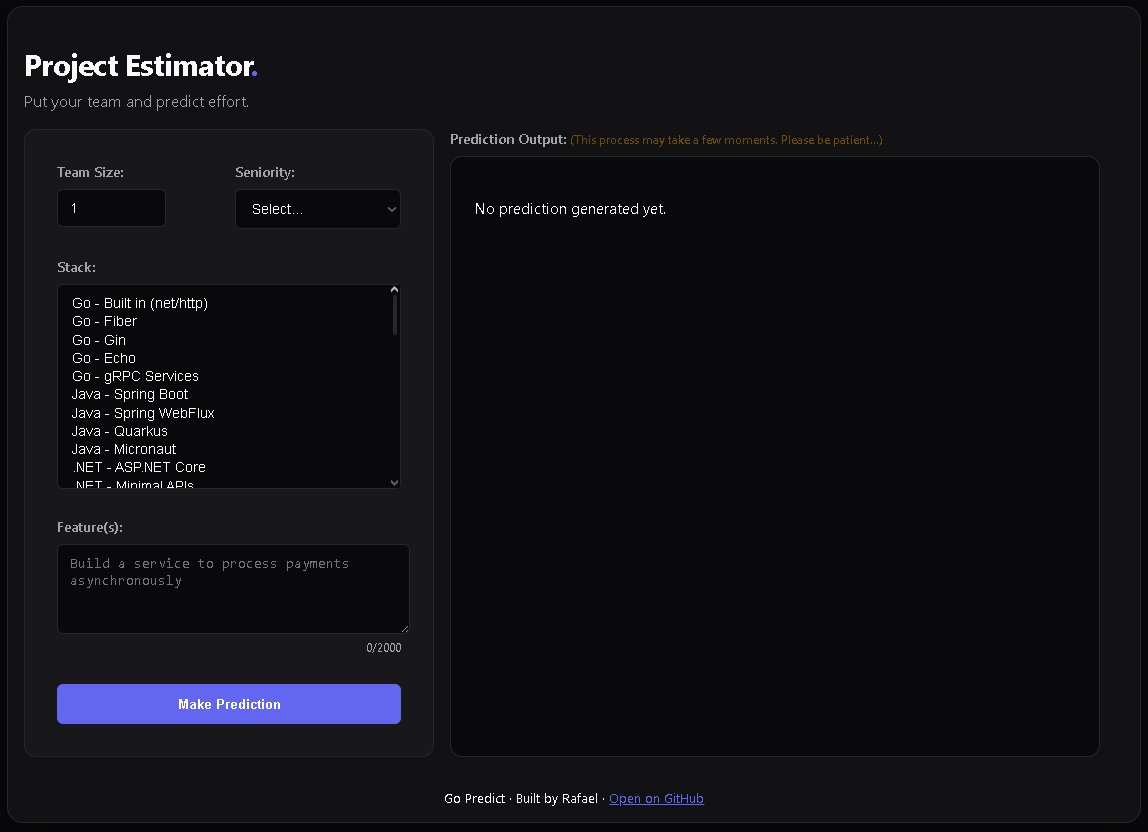
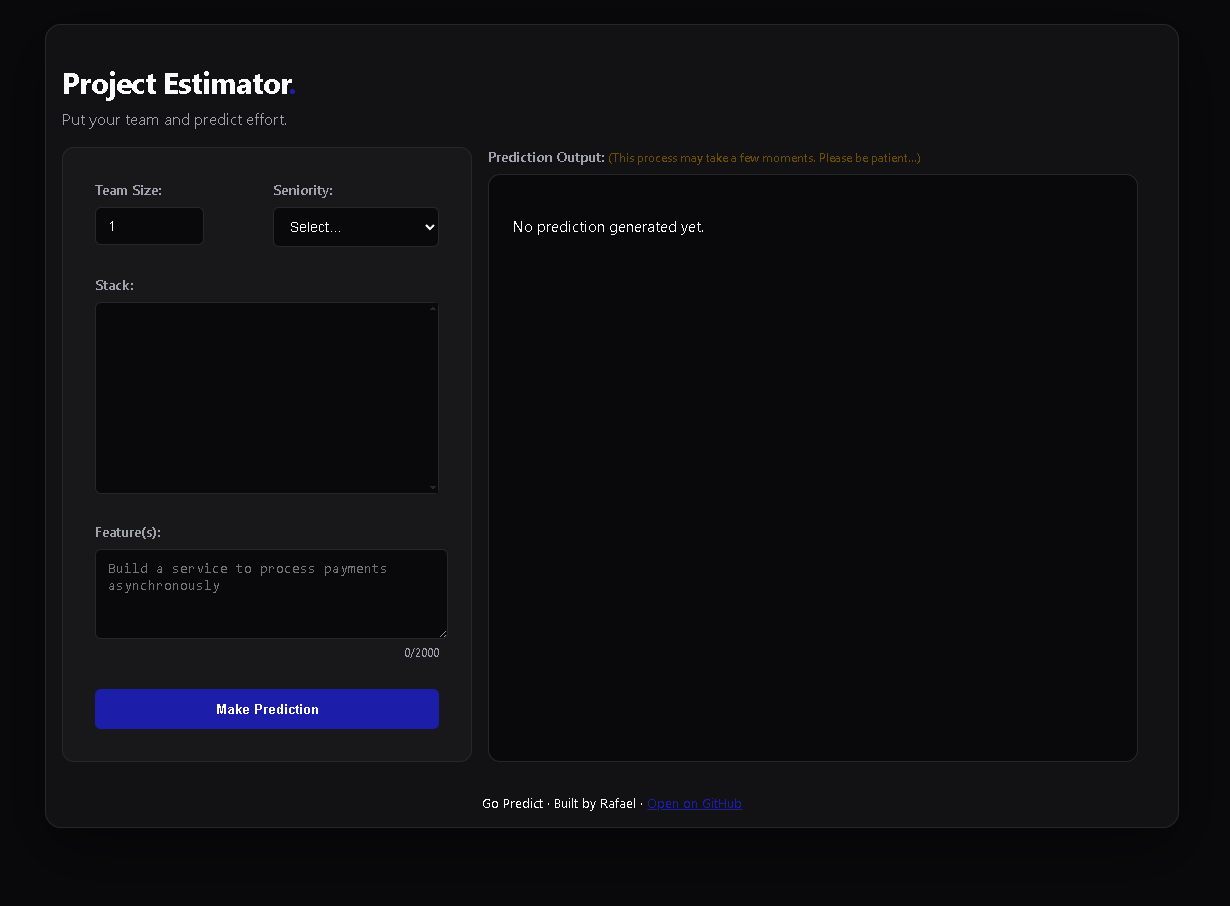
style: changing website's color

diff --git a/frontend/src/App.css b/frontend/src/App.css
@@ -2,7 +2,7 @@
   --bg-color: #09090b;
   --card-bg: #18181b;
   --border-color: #27272a;
-  --accent-color: #6366f1;
+  --accent-color: #1c1eaa;
   --text-primary: #fafafa;
   --text-secondary: #a1a1aa;
   font-family: 'JetBrains Mono', system-ui, sans-serif;
